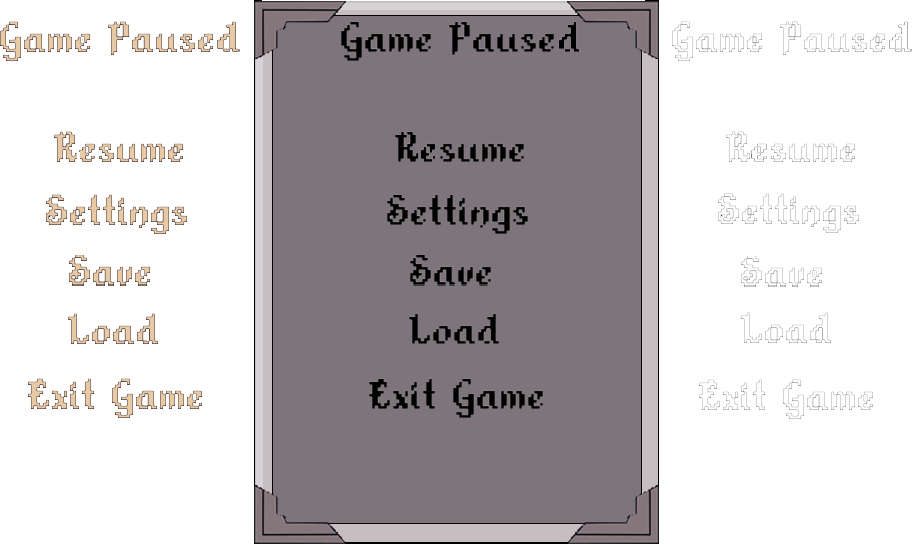
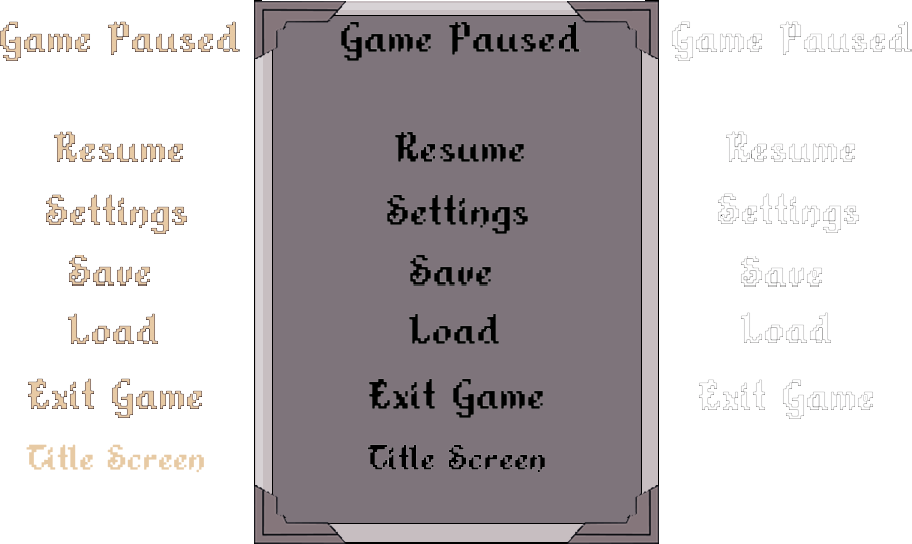
added back to title

Changed region(s): [[0.0307, 0.8125, 0.2456, 0.875], [0.3991, 0.8125, 0.614, 0.875]]

diff --git a/Game/Source/pausePanel.cpp b/Game/Source/pausePanel.cpp
@@ -49,6 +49,12 @@ bool PausePanel::Start()
     exitGameBtn->focusedRec = { 27,377,177,43 };
     exitGameBtn->pressedRec = { 698,377,177,43 };
 
+    titleBtn = (GuiButton*)CreateGuiButton(5, app->guiManager, this, { 551,377 + 88 +62,180,34 }, "title screen");
+    titleBtn->texture = app->guiManager->pauseBox;
+    titleBtn->normalRec = { 368,441,180,34 };
+    titleBtn->focusedRec = { 27,441,180,34 };
+    titleBtn->pressedRec = { 698,441,180,34 };
+
     return true;
 }
 
@@ -100,6 +106,12 @@ bool PausePanel::OnGuiMouseClickEvent(GuiControl* control)
     else if (control->id == exitGameBtn->id)
     {
         app->guiManager->quitPanel->Enable();
+        app->guiManager->pausePanel->Disable();
+        gamePaused = false;
+    }
+    else if (control->id == titleBtn->id)
+    {
+        app->guiManager->back2Title = true;
         app->guiManager->pausePanel->Disable();
         gamePaused = false;
     }

diff --git a/Game/Source/LogoScreen.cpp b/Game/Source/LogoScreen.cpp
@@ -6,6 +6,8 @@
 #include "Window.h"
 #include "LogoScreen.h"
 #include "FadeToBlack.h"
+#include "GuiManager.h"
+#include "Transitions.h"
 
 #include "Defs.h"
 #include "Log.h"
@@ -78,7 +80,11 @@ bool LogoScreen::PostUpdate()
 	}
 	else if(gamepad.a == true) app->fade->Fade(this, (Module*)app->titleScreen);
 		
-	
+	if (app->guiManager->back2Title == true)
+	{
+		app->transitions->SelectTransition(1, 0, 1280, this, (Module*)app->titleScreen);
+		app->guiManager->back2Title = false;
+	}
 
 	return ret;
 }

diff --git a/Game/Source/TownScene.cpp b/Game/Source/TownScene.cpp
@@ -8,6 +8,7 @@
 #include "TownScene.h"
 #include "GuiManager.h"
 #include "PlayerModule.h"
+#include "Transitions.h"
 
 #include "Defs.h"
 #include "Log.h"
@@ -104,6 +105,12 @@ bool TownScene::PostUpdate()
 	bool ret = true;
 	
 	if (playerPos.y > 1000)app->fade->Fade(this, (Module*) app->worldMapScene);
+
+	if (app->guiManager->back2Title == true)
+	{
+		app->transitions->SelectTransition(1, 0, 1280, this, (Module*)app->titleScreen);
+		app->guiManager->back2Title = false;
+	}
 
 	return ret;
 }

diff --git a/Game/Source/GameplayScreen.cpp b/Game/Source/GameplayScreen.cpp
@@ -7,6 +7,7 @@
 #include "GameplaySceen.h"
 #include "FadeToBlack.h"
 #include "GuiManager.h"
+#include "Transitions.h"
 
 #include "Defs.h"
 #include "Log.h"
@@ -74,7 +75,11 @@ bool GameplayScreen::PostUpdate()
 	}
 	else if(gamepad.start == true) app->guiManager->pausePanel->Enable();
 	
-
+	if (app->guiManager->back2Title == true)
+	{
+		app->transitions->SelectTransition(1, 0, 1280, this, (Module*)app->titleScreen);
+		app->guiManager->back2Title = false;
+	}
 	return ret;
 }
 

diff --git a/Game/Source/DungeonScene.cpp b/Game/Source/DungeonScene.cpp
@@ -9,6 +9,7 @@
 #include "GuiManager.h"
 #include "PlayerModule.h"
 #include "Point.h"
+#include "Transitions.h"
 
 #include "Defs.h"
 #include "Log.h"
@@ -207,7 +208,11 @@ bool DungeonScene::PostUpdate()
 
 	if (playerPos.y > 800) app->fade->Fade(this, (Module*)app->worldMapScene);
 
-
+	if (app->guiManager->back2Title == true)
+	{
+		app->transitions->SelectTransition(1, 0, 1280, this, (Module*)app->titleScreen);
+		app->guiManager->back2Title = false;
+	}
 	return ret;
 }
 

diff --git a/Game/Source/Scene.cpp b/Game/Source/Scene.cpp
@@ -9,6 +9,7 @@
 #include "GuiManager.h"
 #include "PlayerModule.h"
 #include "Point.h"
+#include "Transitions.h"
 
 #include "Defs.h"
 #include "Log.h"
@@ -113,7 +114,11 @@ bool Scene::PostUpdate()
 		else app->render->followPlayerY = false;
 	}
 	
-	
+	if (app->guiManager->back2Title == true)
+	{
+		app->transitions->SelectTransition(1, 0, 1280, this, (Module*)app->titleScreen);
+		app->guiManager->back2Title = false;
+	}
 
 
 	return ret;

diff --git a/Game/Source/BattleScene.cpp b/Game/Source/BattleScene.cpp
@@ -11,6 +11,7 @@
 #include "FadeToBlack.h"
 #include "TutorialScene_4.h"
 #include "TownScene.h"
+#include "Transitions.h"
 
 #include "App.h"
 #include "Audio.h"
@@ -229,6 +230,11 @@ bool BattleScene::PostUpdate()
 		}
 	}
 
+	if (app->guiManager->back2Title == true)
+	{
+		app->transitions->SelectTransition(1, 0, 1280, this, (Module*)app->titleScreen);
+		app->guiManager->back2Title = false;
+	}
 	return true;
 }
 

diff --git a/Game/Source/TutorialScene_4.cpp b/Game/Source/TutorialScene_4.cpp
@@ -93,7 +93,10 @@ bool TutorialScene_4::PostUpdate()
 		startCameraFollowsPlayer = cameraFollowsPlayer;
 		app->transitions->SelectTransition(1, 0, 1280, this, (Module*)app->tutorialForestScene);
 	}
-
+	if (app->guiManager->back2Title == true)
+	{
+		app->transitions->SelectTransition(1, 0, 1280, this, (Module*)app->titleScreen);
+	}
 
 	return ret;
 }

diff --git a/Game/Source/TutorialScene_1.cpp b/Game/Source/TutorialScene_1.cpp
@@ -99,7 +99,10 @@ bool TutorialScene_1::PostUpdate()
 		startCameraFollowsPlayer = cameraFollowsPlayer;
 		app->transitions->SelectTransition(1, 0, 1280, this, (Module*)app->tutorialScene_2);
 	}
-
+	if (app->guiManager->back2Title == true)
+	{
+		app->transitions->SelectTransition(1, 0, 1280, this, (Module*)app->titleScreen);
+	}
 
 	return ret;
 }

diff --git a/Game/Source/StartForestScene.cpp b/Game/Source/StartForestScene.cpp
@@ -94,7 +94,11 @@ bool StartForestScene::PostUpdate()
 		app->transitions->SelectTransition(1, 0, 1280, this, (Module*)app->worldMapScene);
 	}
 	 
-
+	if (app->guiManager->back2Title == true)
+	{
+		app->transitions->SelectTransition(1, 0, 1280, this, (Module*)app->titleScreen);
+		app->guiManager->back2Title = false;
+	}
 	return ret;
 }
 

diff --git a/Game/Source/TutorialForestScene.cpp b/Game/Source/TutorialForestScene.cpp
@@ -102,6 +102,10 @@ bool TutorialForestScene::PostUpdate()
 		app->transitions->SelectTransition(1, 0, 1280, this, (Module*)app->tutorialScene_4);
 	}
 
+	if (app->guiManager->back2Title == true)
+	{
+		app->transitions->SelectTransition(1, 0, 1280, this, (Module*)app->titleScreen);
+	}
 	return ret;
 }
 

diff --git a/Game/Source/TutorialScene_2.cpp b/Game/Source/TutorialScene_2.cpp
@@ -88,7 +88,10 @@ bool TutorialScene_2::PostUpdate()
 		app->transitions->SelectTransition(1, 0, 1280, this, (Module*)app->tutorialScene_3);
 	}
 
-
+	if (app->guiManager->back2Title == true)
+	{
+		app->transitions->SelectTransition(1, 0, 1280, this, (Module*)app->titleScreen);
+	}
 	return ret;
 }
 
